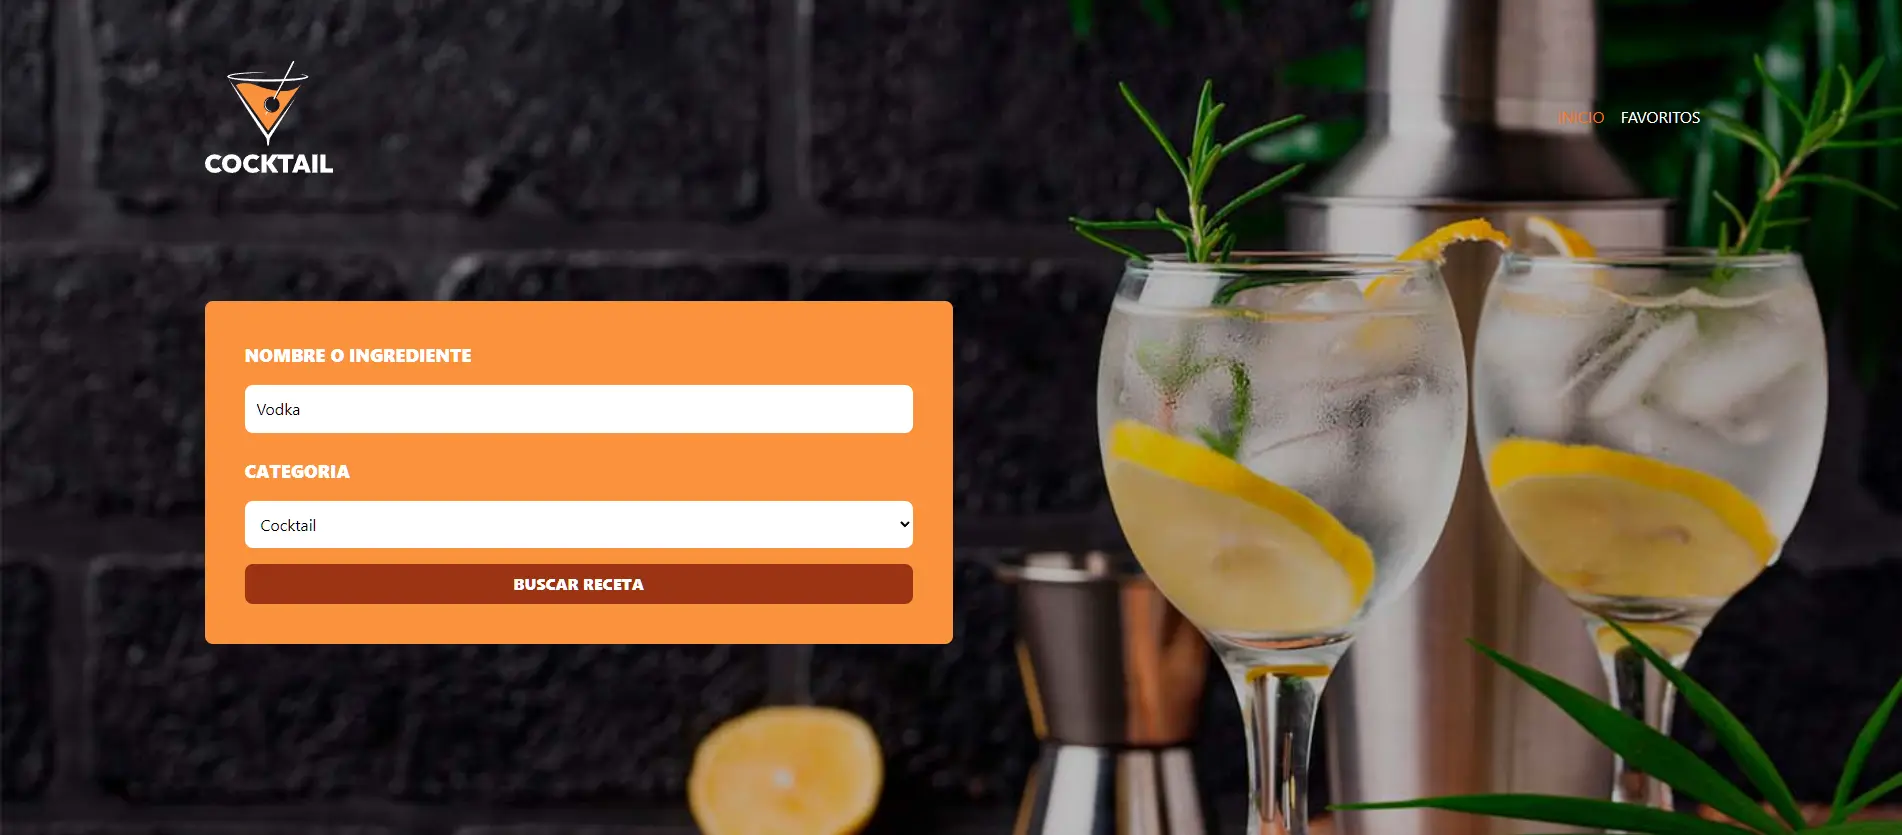
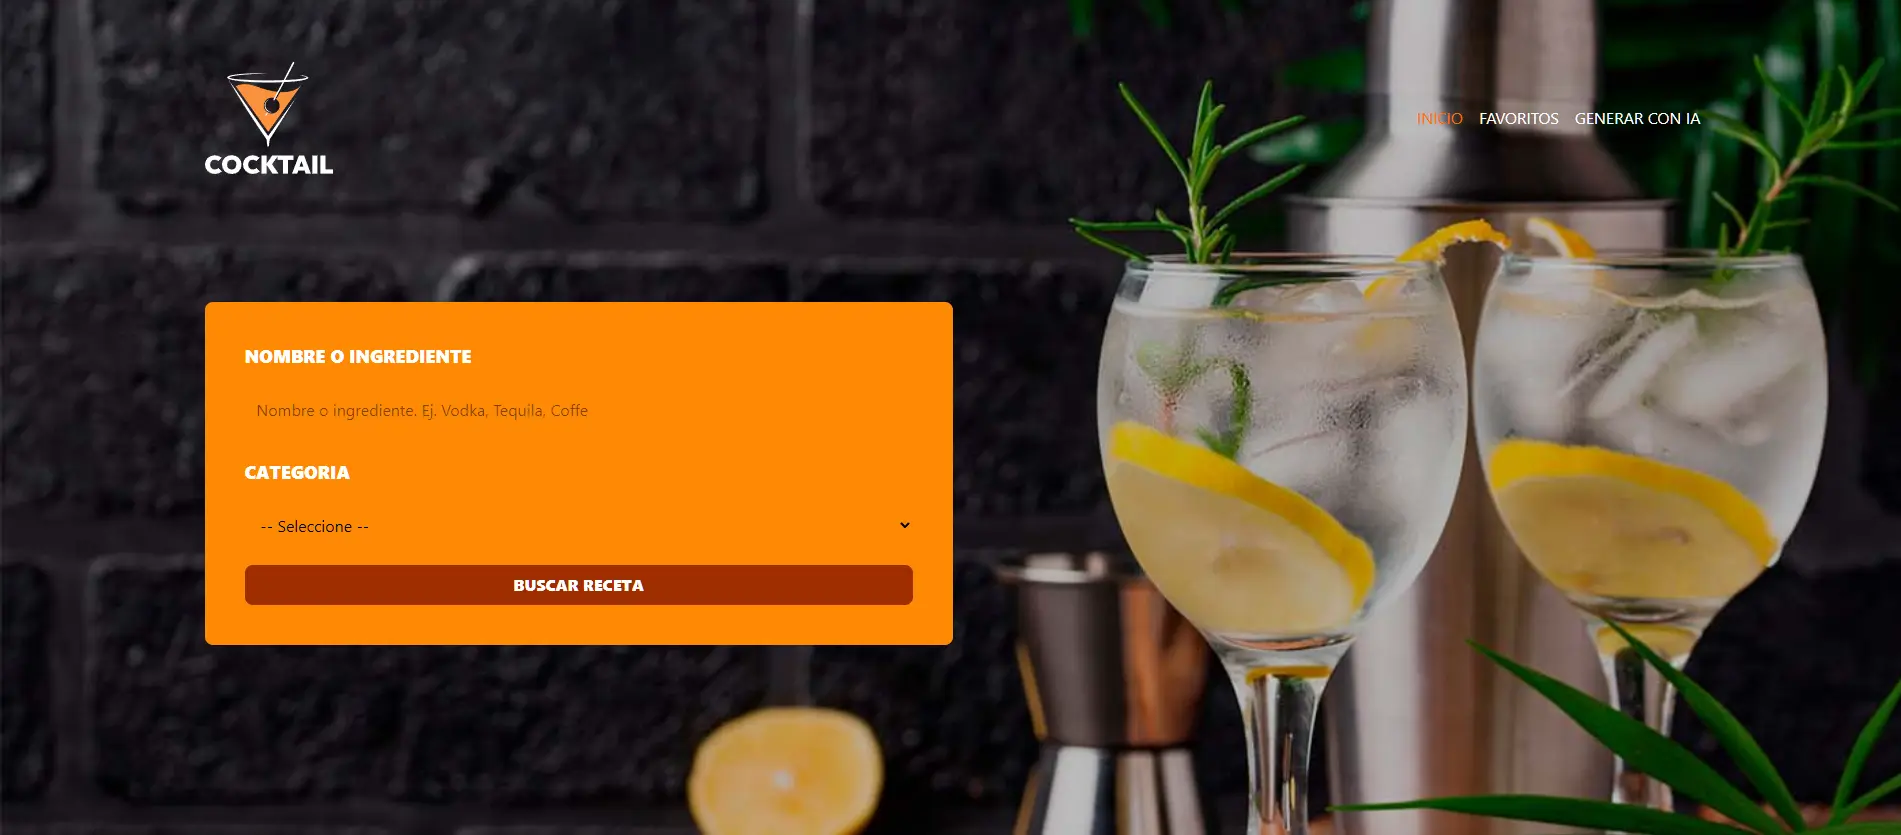
add: ai recipies feacture

diff --git a/src/Data/projectData.ts b/src/Data/projectData.ts
@@ -98,10 +98,10 @@ export const projects: Project[] = [
     },
     {
         id: 3,
-        title: "Recetario",
-        status: "En desarrollo",
+        title: "Recetario con IA",
+        status: "Desplegado",
         technologies: ['React', 'TypeScript', 'TailwindCSS', 'Zustand'],
-        description: 'Pagina web que permite a los usuarios buscar recetas y guardarlas en favoritos. Fue desarrollada para aprender el uso de estados globales mediante Zustand y el consumo de una API externa',
+        description: 'Pagina web que permite a los usuarios buscar recetas y guardarlas en favoritos asi como un apartando donde el usuario podra soliciotar recetas al bartender (que podra generarlas con la ayuda de IA). Fue desarrollada para aprender el uso de estados globales mediante Zustand y el consumo de APIs externas',
         type: 'Frontend',
         githubUrl: [
             {
@@ -115,19 +115,22 @@ export const projects: Project[] = [
             '/Projects/Recetas/list.webp',
             '/Projects/Recetas/home.webp',
             '/Projects/Recetas/modal.webp',
-            '/Projects/Recetas/favorite.webp'
+            '/Projects/Recetas/favorite.webp',
+            '/Projects/Recetas/ia-generating.webp'
         ],
         objetives: [
             'Afianzar mis conocimiento en React con TypeScript',
             'Aprender el uso de estados globales mediante Zustand',
-            'Aprender a consumir una API externa'
+            'Aprender a consumir una API externa',
+            'Aprender a incorporar IA a mis proyectos'
         ],
         features: [
             'Consumo de una API externa',
             'Gestión de estados globales',
             'Validacion de datos en los formularios',
             'Implementacion de un modal',
-            'Implementacion de un sistema de favoritos'
+            'Implementacion de un sistema de favoritos',
+            'Implementacion de IA con OpenRouter'
         ],
     }
 ]
